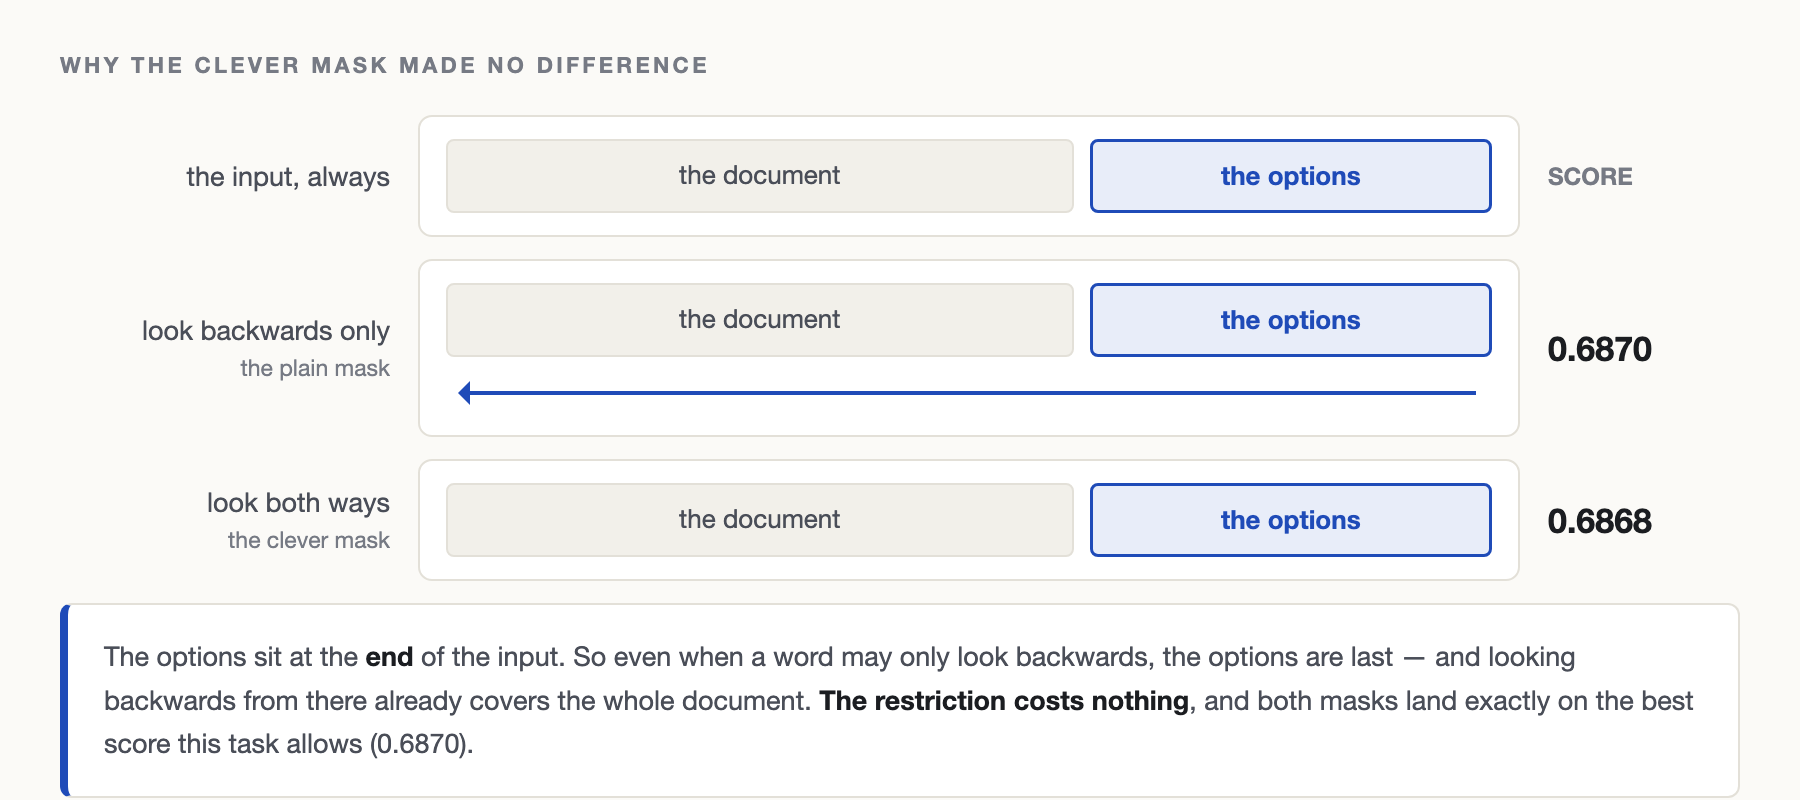
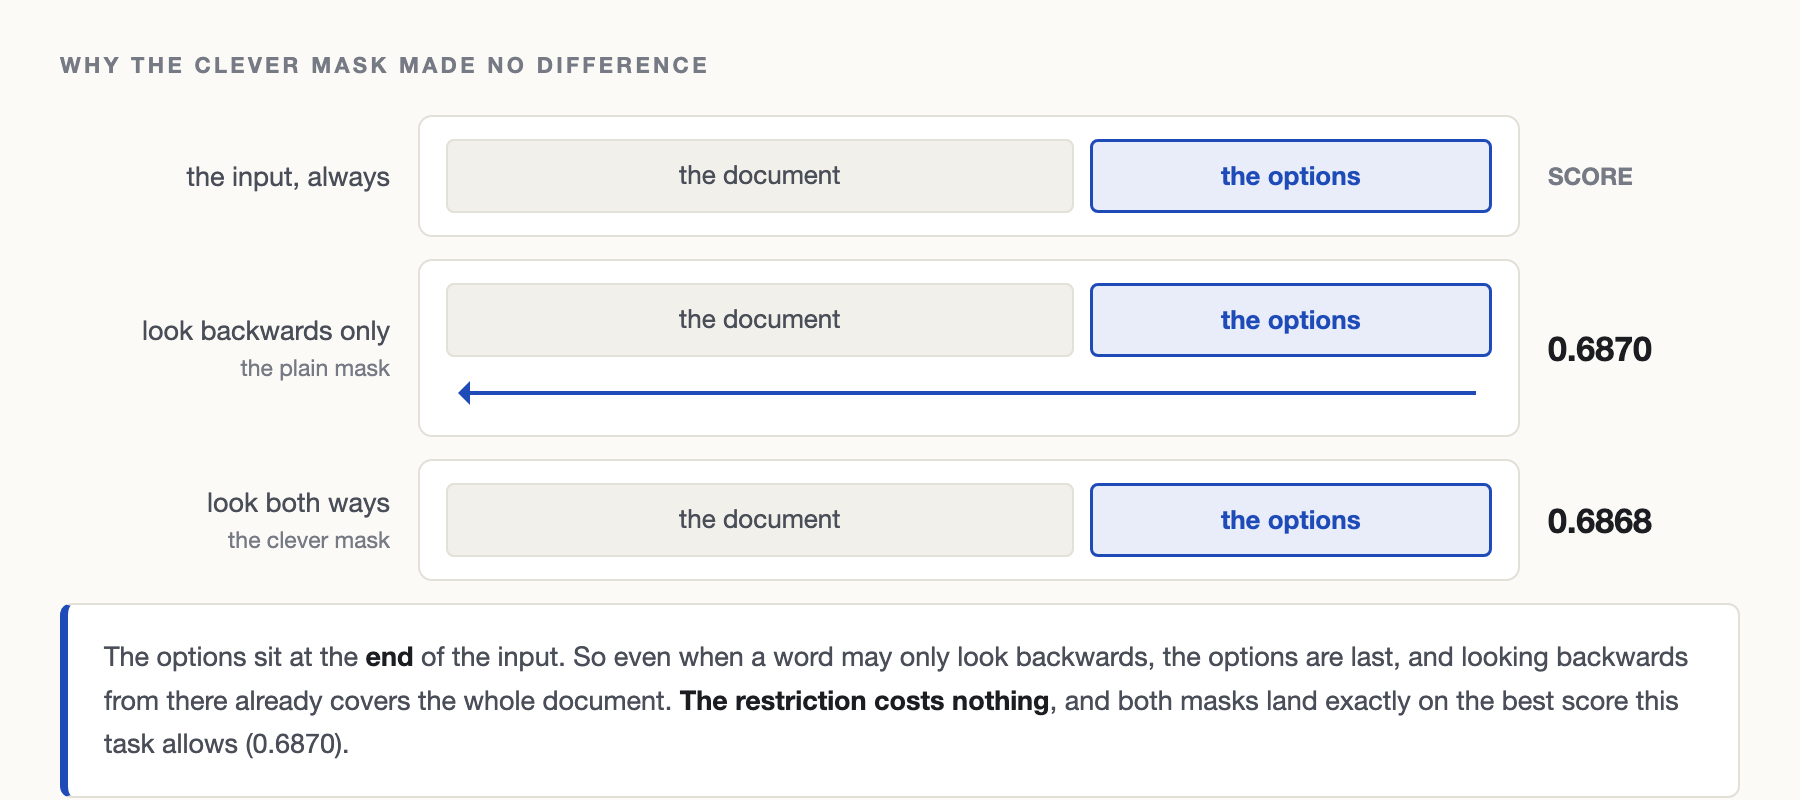
blog: remove every em dash
24 in the post, 6 across the figure sources, and one on each index page.
Each rewritten to what the sentence actually wanted rather than swapped for
a hyphen: a comma where it was an aside, a colon where it introduced a list,
a full stop where it joined two complete thoughts.

Figures re-rendered, since their text is baked into the PNGs. En dashes in
numeric ranges are kept, being a different mark. Pre-existing em dashes
elsewhere on the site are untouched.

Changed region(s): [[0.0622, 0.8125, 0.9333, 0.9688]]

diff --git a/blog/rebuilding-jev/index.html b/blog/rebuilding-jev/index.html
@@ -43,7 +43,7 @@
   <header>
     <div class="kicker">Machine learning &middot; Reproduction</div>
     <h1>Rebuilding Jev</h1>
-    <p class="standfirst">A new model answers questions about text without generating any text. It shipped without a paper, so I rebuilt a small version and made four guesses about how it works. Two were wrong &mdash; including the one the whole design appears to rest on.</p>
+    <p class="standfirst">A new model answers questions about text without generating any text. It shipped without a paper, so I rebuilt a small version and made four guesses about how it works. Two were wrong, including the one the whole design appears to rest on.</p>
     <div class="byline"><span>Sahasra Ranjan</span>
     <span>~8 min read</span>
     <span>206K parameters, trained from scratch &middot; CPU only &middot; <a href="https://github.com/sahasrarjn/system-one">code</a></span></div>
@@ -58,20 +58,20 @@
 
   <p>TypeSafe AI released Jev last week. You give it a document and a list of questions whose possible answers are fixed in advance. It returns one answer per question, each with a probability.</p>
 
-  <p>It never writes a sentence. There is no token-by-token generation, so a call takes one pass through the model instead of dozens. That is why they can charge for input and give output away free &mdash; there is no output to charge for.</p>
+  <p>It never writes a sentence. There is no token-by-token generation, so a call takes one pass through the model instead of dozens. That is why they can charge for input and give output away free. There is no output to charge for.</p>
 
   <figure>
     <img src="/blog/rebuilding-jev/img/io.png" alt="Three stages. You send a document plus questions whose answer options you declare. The model sees one flat sequence of the document words followed by the option words. You get back typed values with probabilities." width="900" loading="lazy">
-    <figcaption><b>The options are part of the input, not baked into the model.</b> That is what lets you change them on every call &mdash; and every probability set sums to 1 over the list you supplied, so there is nothing to parse.</figcaption>
+    <figcaption><b>The options are part of the input, not baked into the model.</b> That is what lets you change them on every call. Every probability set sums to 1 over the list you supplied, so there is nothing to parse.</figcaption>
   </figure>
 
-  <p>No paper came with it. No parameter count, no training details, and no calibration numbers &mdash; which is odd, because calibrated probabilities are the whole pitch.</p>
+  <p>No paper came with it. No parameter count, no training details, and no calibration numbers, which is odd, because calibrated probabilities are the whole pitch.</p>
 </section>
 
 <section>
   <h2>What actually changed inside the model</h2>
 
-  <p>The body of the model is an ordinary transformer &mdash; embeddings, then a stack of layers. Nothing there is new.</p>
+  <p>The body of the model is an ordinary transformer: embeddings, then a stack of layers. Nothing there is new.</p>
 
   <p>The change is the last layer. A language model ends with a layer that scores <em>every word in the vocabulary</em>, picks one, appends it, and runs the whole model again for the next word. That final layer is enormous: for Qwen3-0.6B it is 1,024 &times; 151,936, about 156 million numbers, and roughly a quarter of the entire model.</p>
 
@@ -79,26 +79,26 @@
 
   <figure>
     <img src="/blog/rebuilding-jev/img/surgery.png" alt="Two model stacks side by side. Both share word embeddings and four transformer layers. The language model's last layer scores all 151,936 vocabulary words and feeds a generation loop, both marked removed. This model's last layer produces one score per option, with no loop." width="900" loading="lazy">
-    <figcaption><b>Everything below the arrow is identical.</b> The removed layer is drawn faded because it is the only structural change &mdash; that, and the loop that depended on it.</figcaption>
+    <figcaption><b>Everything below the arrow is identical.</b> The removed layer is drawn faded because it is the only structural change, along with the loop that depended on it.</figcaption>
   </figure>
 
-  <p>This is also where the type guarantee comes from, and it isn&rsquo;t learned. The scores are turned into probabilities that sum to 1 <em>across the options you listed</em>. There is no leftover probability to assign to anything else, so an answer outside your list isn&rsquo;t unlikely &mdash; there is nowhere for it to come from.</p>
+  <p>This is also where the type guarantee comes from, and it isn&rsquo;t learned. The scores are turned into probabilities that sum to 1 <em>across the options you listed</em>. There is no leftover probability to assign to anything else, so an answer outside your list isn&rsquo;t unlikely. There is nowhere for it to come from.</p>
 </section>
 
 <section>
   <h2>The toy I built</h2>
 
-  <p>206,081 parameters. Four transformer layers. It trains on a laptop CPU in forty seconds. <a href="https://github.com/sahasrarjn/system-one/tree/main/tiny">All of it is here</a> &mdash; about 600 lines, no framework beyond PyTorch.</p>
+  <p>206,081 parameters. Four transformer layers. It trains on a laptop CPU in forty seconds. <a href="https://github.com/sahasrarjn/system-one/tree/main/tiny">All of it is here</a>: about 600 lines, no framework beyond PyTorch.</p>
 
-  <p><b>Nothing here is pretrained.</b> The weights start random and only ever see the made-up data below. Where I quote Qwen3-0.6B figures, that is a size comparison to show what the same change costs on a real model &mdash; I never trained it, and none of the results come from it.</p>
+  <p><b>Nothing here is pretrained.</b> The weights start random and only ever see the made-up data below. Where I quote Qwen3-0.6B figures, that is a size comparison to show what the same change costs on a real model. I never trained it, and none of the results come from it.</p>
 
   <p>The training data is made up, and that is the point. I generate each document from a recipe I choose, so I can compute the correct answer&rsquo;s exact probability with Bayes&rsquo; rule.</p>
 
-  <p>That gives me something real data never does: a <b>ceiling</b>. On this task the best possible score is 0.687. When my model scores 0.687 it isn&rsquo;t mediocre, it&rsquo;s perfect &mdash; and the other 31% is the task being genuinely undecidable.</p>
+  <p>That gives me something real data never does: a <b>ceiling</b>. On this task the best possible score is 0.687. When my model scores 0.687 it isn&rsquo;t mediocre, it&rsquo;s perfect, and the other 31% is the task being genuinely undecidable.</p>
 
   <div class="callout">
     <div class="h">One limitation, stated up front</div>
-    <p>My documents are bags of words &mdash; shuffling the words doesn&rsquo;t change the right answer. That turns out to break one of the four experiments, and it&rsquo;s better to know it now than to discover it in the results.</p>
+    <p>My documents are bags of words, so shuffling them doesn&rsquo;t change the right answer. That turns out to break one of the four experiments, and it&rsquo;s better to know it now than to discover it in the results.</p>
   </div>
 </section>
 
@@ -109,16 +109,16 @@
 
   <figure>
     <img src="/blog/rebuilding-jev/img/pipeline.png" alt="Four-stage pipeline: generate a document from a controlled recipe; compute the exact answer probabilities with Bayes' rule and use that distribution as the training target; score the options and compare against the truth with a cross-entropy plus Brier loss; test on 5,000 held-out documents against a known ceiling." width="900" loading="lazy">
-    <figcaption><b>The target is a probability, not a label.</b> Most training tells a model which answer was right. This tells it how likely each answer was &mdash; which is the only way it can learn to be honest about uncertainty.</figcaption>
+    <figcaption><b>The target is a probability, not a label.</b> Most training tells a model which answer was right. This tells it how likely each answer was, which is the only way it can learn to be honest about uncertainty.</figcaption>
   </figure>
 
-  <p>The whole run is twenty thousand documents, ten epochs, forty seconds on a laptop CPU. Testing is five thousand held-out documents, and because the recipe is known I can also compute the <b>best score anyone could possibly get</b> &mdash; which makes &ldquo;is this good?&rdquo; a question with a number rather than a feeling.</p>
+  <p>The whole run is twenty thousand documents, ten epochs, forty seconds on a laptop CPU. Testing is five thousand held-out documents, and because the recipe is known I can also compute the <b>best score anyone could possibly get</b>, which makes &ldquo;is this good?&rdquo; a question with a number rather than a feeling.</p>
 </section>
 
 <section>
   <h2>Four guesses</h2>
 
-  <p><b>Did it work?</b> On the thing that matters most, yes &mdash; the model landed exactly on the best score the task allows, and its stated probabilities track reality closely. On flexible answer lists, only partly. And one of my four guesses turned out to be untestable on a task this simple.</p>
+  <p><b>Did it work?</b> On the thing that matters most, yes. The model landed exactly on the best score the task allows, and its stated probabilities track reality closely. On flexible answer lists, only partly. And one of my four guesses turned out to be untestable on a task this simple.</p>
 
   <div class="guesses">
     <div>
@@ -147,18 +147,18 @@
 <section>
   <h2>Why the mask test told me nothing</h2>
 
-  <p>Transformers control which words may look at which other words. I expected that choice to matter here: let the document look at itself in both directions but not forward at the options, and the document&rsquo;s work stops depending on what you asked &mdash; so you can reuse it across a dozen questions. That is the design I guessed Jev uses, though TypeSafe has confirmed nothing.</p>
+  <p>Transformers control which words may look at which other words. I expected that choice to matter here: let the document look at itself in both directions but not forward at the options, and the document&rsquo;s work stops depending on what you asked, so you can reuse it across a dozen questions. That is the design I guessed Jev uses, though TypeSafe has confirmed nothing.</p>
 
   <p>So I trained three models that differed only in which parts of the text could see which other parts. They scored identically.</p>
 
-  <p>The reason is in how the input is laid out. <b>The options sit at the end of the text.</b> So even under the most restrictive mask &mdash; where each word can only look backwards &mdash; the options are last, and looking backwards means looking at the whole document anyway.</p>
+  <p>The reason is in how the input is laid out. <b>The options sit at the end of the text.</b> So even under the most restrictive mask, where each word can only look backwards, the options are last, and looking backwards means looking at the whole document anyway.</p>
 
   <figure>
     <img src="/blog/rebuilding-jev/img/mask.png" alt="Three rows showing the same input under different masks. The options sit at the end, so even a backwards-only mask lets them see the whole document. Both masks score the same." width="900" loading="lazy">
     <figcaption><b>A null result about my task, not about masks.</b> A task where word order matters would give a real answer; mine can&rsquo;t.</figcaption>
   </figure>
 
-  <p>One thing did hold. The fully-open mask &mdash; where everything sees everything, and the reuse trick becomes impossible &mdash; scored <b>+0.0002</b> better. So reusing the document&rsquo;s work costs nothing.</p>
+  <p>One thing did hold. The fully-open mask, where everything sees everything and the reuse trick becomes impossible, scored <b>+0.0002</b> better. So reusing the document&rsquo;s work costs nothing.</p>
 </section>
 
 <section>
@@ -171,7 +171,7 @@
     <figcaption><b>Position, not meaning.</b> The model tells the option slots apart by where they sit, so it learns &ldquo;the third slot means sales.&rdquo;</figcaption>
   </figure>
 
-  <p>This is the result that changed what I&rsquo;d build. Picking answers from a list you supply at call time is the most attractive thing about this design &mdash; and it is much shakier than it looks.</p>
+  <p>This is the result that changed what I&rsquo;d build. Picking answers from a list you supply at call time is the most attractive thing about this design, and it is much shakier than it looks.</p>
 </section>
 
 <section>
@@ -198,15 +198,15 @@
     <table>
       <thead><tr><th>Question type</th><th class="num">Picks the right answer</th><th class="num">Confidence off by</th></tr></thead>
       <tbody>
-        <tr><td>4 options &mdash; trained on this</td><td class="num">0.682</td><td class="num">0.091</td></tr>
-        <tr><td>3 options &mdash; never seen</td><td class="num">0.681</td><td class="num">0.340</td></tr>
-        <tr><td>2 options &mdash; never seen</td><td class="num">0.776</td><td class="num">0.276</td></tr>
-        <tr><td>2 options &mdash; worst case</td><td class="num">0.727</td><td class="num">0.451</td></tr>
+        <tr><td>4 options, trained on this</td><td class="num">0.682</td><td class="num">0.091</td></tr>
+        <tr><td>3 options, never seen</td><td class="num">0.681</td><td class="num">0.340</td></tr>
+        <tr><td>2 options, never seen</td><td class="num">0.776</td><td class="num">0.276</td></tr>
+        <tr><td>2 options, worst case</td><td class="num">0.727</td><td class="num">0.451</td></tr>
       </tbody>
     </table>
   </div>
 
-  <p>The label survives. The probability does not &mdash; and the probability is the reason you&rsquo;d build this instead of an ordinary classifier.</p>
+  <p>The label survives. The probability does not, and the probability is the reason you&rsquo;d build this instead of an ordinary classifier.</p>
 </section>
 
 <div class="takeaways">
@@ -231,7 +231,7 @@ Do you need conclusions about masks that hold on real text?
 <section>
   <h2>What this doesn&rsquo;t show</h2>
 
-  <p>This is a 206,000-parameter model on invented data. It doesn&rsquo;t tell you how Jev is actually built &mdash; TypeSafe has confirmed nothing, and my mask inference could be wrong. The two failures are failures in <em>my</em> setup, and a bigger model on real text might behave differently.</p>
+  <p>This is a 206,000-parameter model on invented data. It doesn&rsquo;t tell you how Jev is actually built. TypeSafe has confirmed nothing, and my mask inference could be wrong. The two failures are failures in <em>my</em> setup, and a bigger model on real text might behave differently.</p>
 
   <p>What it does establish is narrower and still useful. Training on probabilities rather than labels reaches the best score the task allows and stays honest about its confidence, across every difficulty I tried. Answer lists that change between calls work for the answer and not for the confidence. And a clever attention mask, on a task like this one, buys nothing over the plain one.</p>
 

diff --git a/blog/rebuilding-jev/fig/io.html b/blog/rebuilding-jev/fig/io.html
@@ -31,7 +31,7 @@
       &nbsp;&nbsp;&nbsp;&nbsp;<span class="k">"category"</span>: [<span class="s">"billing"</span>, <span class="s">"technical"</span>, <span class="s">"sales"</span>, <span class="s">"spam"</span>],<br>
       &nbsp;&nbsp;&nbsp;&nbsp;<span class="k">"urgent"</span>:&nbsp;&nbsp; [<span class="s">"yes"</span>, <span class="s">"no"</span>]<br>
       &nbsp;&nbsp;}<br>}</div>
-      <div class="note2">You declare the options. That list is the contract &mdash; the answer will be one of these.</div>
+      <div class="note2">You declare the options. That list is the contract. The answer will be one of these.</div>
     </div>
   </div>
 
@@ -44,8 +44,7 @@
         <span class="w">my</span><span class="w">bill</span><span class="w">was</span><span class="w">charged</span><span class="w">twice</span><span class="w">please</span><span class="w">help</span>
         <span class="o">billing</span><span class="o">technical</span><span class="o">sales</span><span class="o">spam</span>
       </div>
-      <div class="note2">One flat sequence, here for the <b>category</b> question. The options are appended as
-        ordinary words, so the model reads the document and the candidate answers together. The second question
+      <div class="note2">One flat sequence, here for the <b>category</b> question. The options are appended as ordinary words, so the model reads the document and the candidate answers together. The second question
         reuses the document's work rather than re-reading it.</div>
     </div>
   </div>
@@ -59,7 +58,7 @@
         <div class="r"><div class="n">category</div><div class="v">billing</div><div class="p">p = 0.59</div></div>
         <div class="r"><div class="n">runner-up</div><div class="v">technical</div><div class="p">p = 0.27</div></div>
         <div class="r"><div class="n">urgent</div><div class="v">yes</div><div class="p">p = 0.88</div></div>
-        <div class="r"><div class="n">confidence</div><div class="v">0.41</div><div class="p">low &mdash; route to a human</div></div>
+        <div class="r"><div class="n">confidence</div><div class="v">0.41</div><div class="p">low, route to a human</div></div>
       </div>
       <div class="note2">Typed values, not text. Every probability set sums to 1 over the options you listed,
         so there is nothing to parse and nothing to validate.</div>

diff --git a/blog/rebuilding-jev/fig/surgery.html b/blog/rebuilding-jev/fig/surgery.html
@@ -41,7 +41,7 @@
           <div class="gone">REMOVED</div></div>
         <div class="loop">pick a word &rarr; add it &rarr; run again<div class="gone">REMOVED</div></div>
         <div class="out bad"><span class="px">{"category": "billing"}</span><br>
-          a string you must parse &mdash; and it can come back malformed</div>
+          a string you must parse, and it can come back malformed</div>
       </div>
     </div>
 
@@ -55,7 +55,7 @@
         <div class="blk tiny">last layer: one score per option
           <div class="px" style="margin-top:4px">1024 &times; 1 = 1,025 numbers</div></div>
         <div style="height:38px;display:flex;align-items:center;justify-content:center;
-                    color:var(--ink-3);font-size:12px;margin-bottom:7px">no loop &mdash; one pass and it's done</div>
+                    color:var(--ink-3);font-size:12px;margin-bottom:7px">no loop, one pass and it's done</div>
         <div class="out good">billing 0.59 &nbsp; technical 0.27<br>sales 0.09 &nbsp; spam 0.05</div>
       </div>
     </div>
@@ -63,7 +63,7 @@
   </div>
   <div class="foot">
     Everything below the arrow is identical. The change is that the final layer stops scoring
-    <b>151,936 possible words</b> and starts scoring <b>however many options you listed</b> &mdash; which is
+    <b>151,936 possible words</b> and starts scoring <b>however many options you listed</b>, which is
     why the generation loop disappears with it. Figures shown for Qwen3-0.6B; my toy is the same shape, smaller.
   </div>
 </div>

diff --git a/blog/rebuilding-jev/fig/order.html b/blog/rebuilding-jev/fig/order.html
@@ -11,13 +11,12 @@
 .verdict b{color:var(--ink)}
 </style>
 <div class="wrap">
-  <div class="ttl">List the same options in a different order &mdash; how often does the answer change?</div>
+  <div class="ttl">List the same options in a different order, how often does the answer change?</div>
   <div class="row"><div class="lab">trained on one fixed order</div>
     <div class="track"><i style="width:90%;background:#B0332B"></i></div><div class="val" style="color:#B0332B">36.3%</div></div>
   <div class="row"><div class="lab">trained on shuffled orders</div>
     <div class="track"><i style="width:30%;background:#C2701C"></i></div><div class="val" style="color:#C2701C">11.9%</div></div>
   <div class="row"><div class="lab">what you'd want<br><span class="sub">order shouldn't matter at all</span></div>
     <div class="track"><i style="width:0.8%;background:#1D7A5F"></i></div><div class="val" style="color:#1D7A5F">0%</div></div>
-  <div class="verdict">The model can tell the option slots apart by <b>where they sit</b>, so it quietly learns
-    &ldquo;the third slot means sales.&rdquo; Shuffling during training helps a lot and still doesn't fix it.</div>
+  <div class="verdict">The model can tell the option slots apart by <b>where they sit</b>, so it quietly learns &ldquo;the third slot means sales.&rdquo; Shuffling during training helps a lot and still doesn't fix it.</div>
 </div>

diff --git a/blog/rebuilding-jev/fig/pipeline.html b/blog/rebuilding-jev/fig/pipeline.html
@@ -30,7 +30,7 @@
   <div class="down">&darr;</div>
 
   <div class="lane"><div class="tag">2 &middot; target</div><div class="b acc">
-    <div class="h" style="color:var(--accent)">Compute the exact answer &mdash; as a probability</div>
+    <div class="h" style="color:var(--accent)">Compute the exact answer, as a probability</div>
     <div class="d">Because I chose the recipe, Bayes' rule gives the true P(category | document) in closed form.
       <b>That distribution is the training target</b>, not the label.</div>
     <div class="px" style="margin-top:7px">billing 0.62 &nbsp; technical 0.19 &nbsp; sales 0.12 &nbsp; spam 0.07</div>
@@ -51,7 +51,7 @@
   <div class="down">&darr;</div>
 
   <div class="lane"><div class="tag">4 &middot; test</div><div class="b">
-    <div class="h">5,000 held-out documents &mdash; and a known ceiling</div>
+    <div class="h">5,000 held-out documents, and a known ceiling</div>
     <div class="d">Measure the answer it picks, how far its confidence sits from the truth, and how often its
       stated probabilities match what actually happens. The recipe also gives the <b>best score anyone could
       get</b> on this task, so "good" has a number.</div>

diff --git a/index.html b/index.html
@@ -325,8 +325,7 @@
                 <strong style="color: #1e4356;">Rebuilding Jev</strong>
                 <span class="badge bg-secondary" style="margin-left: 8px;">19 Sep 2026 &middot; Machine learning</span><br>
                 A new model answers questions about text without generating any text, and shipped without a paper.
-                I rebuilt a small version and made four guesses about how it works. Two were wrong &mdash; including
-                the one the whole design rests on.
+                I rebuilt a small version and made four guesses about how it works. Two were wrong, including the one the whole design rests on.
                 <br>
                 <a href="blog/rebuilding-jev/" style="color: #4fa6d5;">[Read]</a>
               </li>

diff --git a/blog/index.html b/blog/index.html
@@ -42,8 +42,7 @@
     <span class="post-title">Rebuilding Jev</span>
     <span class="post-desc">
       TypeSafe shipped a model that answers questions without generating text, and no paper with it. I
-      rebuilt a 206K-parameter version and made four guesses about how it works. Two were wrong: the
-      clever attention mask changed nothing, and reordering the answer options flipped 36% of answers.
+      rebuilt a 206K-parameter version and made four guesses about how it works. Two were wrong. The clever attention mask changed nothing, and reordering the answer options flipped 36% of answers.
     </span>
   </a>
 

diff --git a/blog/rebuilding-jev/fig/mask.html b/blog/rebuilding-jev/fig/mask.html
@@ -43,8 +43,7 @@
   </div>
 
   <div class="verdict">
-    The options sit at the <b>end</b> of the input. So even when a word may only look backwards, the options
-    are last &mdash; and looking backwards from there already covers the whole document. <b>The restriction
+    The options sit at the <b>end</b> of the input. So even when a word may only look backwards, the options are last, and looking backwards from there already covers the whole document. <b>The restriction
     costs nothing</b>, and both masks land exactly on the best score this task allows (0.6870).
   </div>
 </div>
